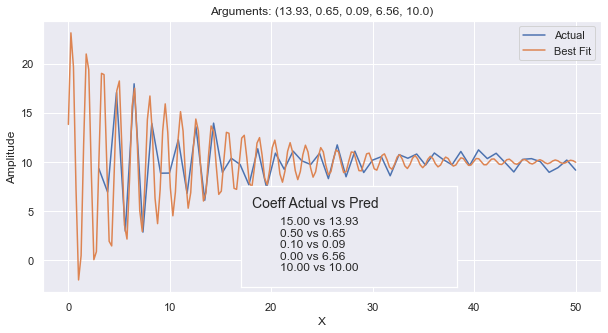
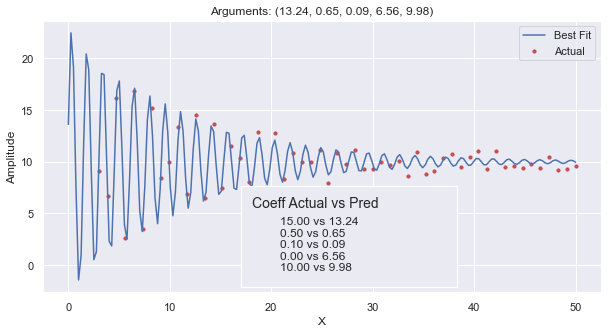
updates to best fit

diff --git a/book_source/visualizations/line_of_best_fit.md b/book_source/visualizations/line_of_best_fit.md
@@ -1,15 +1,19 @@
 # Curve of Best Fit
 In this section, we will show how you can identify a Curve of Best Fit for a set of data points.
-You can choose the form of the equation of the line; it can be a line, parabola, polynomial of order 4 or more,
-or some custom equation like Sigmoid.  
+The curve can be anything an equation can express, but there are some limitations with discontinuous curves and asymptotes.
+The easiest is finding a line of best fit. Secondarily, you can find the polynomial that fits the data points. Tertiary,
+you can provide an equation of a continuous curve involving a combination of functions such as sine or logarithm. 
+Lasty, you can have a non-continuous curve like Sigmoid or `y = 1 / (x - 3).  
 
-We will review three different ways to get the equation of a fitted curve.  
+We will review four different ways to get the equation of a fitted curve.  
 1. `scipy.stats.linregress`: a statistical method that identifies a line's coefficients as well some statistical information.  
 2. `numpy.polyfit`: a Numpy method that identifies the coefficients of any n-ordered polynomial.  
 3. `scipy.stats.curve_fit`: a statistical method that identifies the coefficients of **_any_ function** as well as some statistical information about the fit.  
+4. `ML LinearRegression`: 
 
-In identifying a Curve of Best Fit, it is good to know _how good_ the curve is at representing
-the data points. You should quanitify that it is better worse than a parabola. We can do some of this with 
+When identifying a Curve of Best Fit, it is good to know _how good_ the curve is at representing
+the data points. We want an objective quanitification that tells us whether a straight line is better at fitting
+the points, or some other curved line such as a parabola. We can compare how well two differen lines fit using 
 the Mean Squared Error.  
 
 Often we want to know how much of a correlation there is between the x & y data points. Afterall, 
@@ -189,6 +193,9 @@ def add_inset_text(fig, position, actual, coeffs):
     
     
 def best_parabola_fit():
+    def parabola(x, a, b, c):
+        y = a*x**2 + b*x + c
+        return y
 
     def generate_points(a, b, c, noise):
         x_data = [ x for x in range(3, 50, 2) ]
@@ -245,20 +252,103 @@ Comments go here.
 ````
 
 ## Curve Fit
+Here we see how we can find a curve of best fit to a custom, continuous curve: a logarithmically degrading, sinusoidal wave.  
 ````{tab-set}
-```{tab-item} Sinusoidal
+```{tab-item} Sinusoidal  
+In our custom curve, we have coefficients for each of the following: amplitude, frequency, rate of logarithmic 
+degredation, phase and offset.  
+
+The top plot has "zero arguments" provided in the method `logarithmic_sinusoidal_wave` which means that
+it uses all the default values (10, 1, 0.2, 0, 0). This is why the title of the top plot is: "Arguments: ()".  
+
+The bottom plot is the same equation but with specific coefficients provided (15, 0.5, 0.1, 0, 10). It 
+shows how the coefficients impact the curve. Pay attention to the values on the y-axis.   
 ![regplot](../_static/bestfit_curve_two.png)
+
+```{admonition} See Code
+:class: dropdown seealso
+```python
+def logarithmic_sinusoidal_wave(x, a=10, frequency=1, r=0.2, phase=0, offset=0):
+    # Logarithmic convergence of amplitude
+    amplitude = a * np.exp(-r * x)
+    return offset + amplitude * np.sin(2 * np.pi * frequency * x + phase)
+
+def plot_with_args(ax, x_max, *args):
+    # Generate x values
+    x = np.linspace(0, x_max, 200)
+    # Compute y values (plural) 
+    y = logarithmic_sinusoidal_wave(x, *args)
+
+    # Plot on the axis & show labels
+    ax.plot(x, y)
+    ax.set_xlabel('X')
+    ax.set_ylabel('Amplitude')
+    ax.set_title(f'Arguments: {args}')
+        
+def show_sinusoidal_curve():    
+    fig, (ax1, ax2) = plt.subplots(2, figsize=(10, 9))
+    # add some more spacing horizontally between the two subplots
+    plt.subplots_adjust(hspace=0.3)
+    plot_with_args(ax1, 20)
+    
+    wave_args = (15, 0.5, 0.1, 0, 10)
+    plot_with_args(ax2, 20, *wave_args)
+    
+    plt.suptitle('Logarithmic Sinusoidal Waves', fontsize=18)
 ```
 ```{tab-item} Best Fit
+This plot shows the generated data points (that have noise) as small red dots. These data points
+were derived by adding a noise ($\pm 1$) to the sinusoidal equation using the argments (15, 0.5, 0.1, 0, 10).  
+
+The blue line is the best fit curve that fits the `logarithmic_sinusoidal_wave` (provided
+in the code of the Sinusoidal tab.)  
+
+The inset shows how the actual arguments used when generating the points with noise, and it compares
+them against the coefficients for the curve of best fit. Here you can see that it slightly underestimated
+the amplitidue. It was 0.15 off of the frequency, only 0.01 way from the rate of degradation, and only
+0.02 away from the offset. The phase was 6.56 off of the actual phase used.  
 ![regplot](../_static/bestfit_curve_fit.png)
 ```
 ```{tab-item} Code
 ```python
-def function():
-    pass
+ def find_curve_best_fit():
+    def generate_points(noise, *args):
+        '''
+        *args : allow us to call the function with any number of arguments so long as they are in order.
+                we would just default the rest of the argument values.
+        '''
+        x_data = np.linspace(3, 50, 55)
+        y_data = [ logarithmic_sinusoidal_wave(x, *args) + random.uniform(-noise, noise) for x in x_data]
+        return x_data, y_data
+    
+    # establish our True curve parameters and generate points
+    wave_args = (15, 0.5, 0.1, 0, 10)
+    x_data, y_data = generate_points(1, *wave_args)
+    
+    # get our initial guess as to what the coefficients will be.
+    # the count of arguments here tells curve_fit how many arguments to optimize.
+    p0 = (15, 1, .5, 0, 0)
+    # find our curve of best fit from the line, and round off the coefficient values
+    coeffs, _ = curve_fit(logarithmic_sinusoidal_wave, x_data, y_data, p0=p0)
+    coeffs = tuple([ round(t, 2) for t in coeffs  ])
+
+    # Plot all of it
+    fig, ax = plt.subplots(1, figsize=(10, 5))
+    ax.scatter(x_data, y_data, s=10, color='r')
+    plot_with_args(ax, 50, *coeffs)
+    ax.legend(['Best Fit', 'Actual'])
+    pos = [ .4, .14, .3, .28 ]
+    add_inset_text(fig, pos, wave_args, coeffs)
 ```
 ```{tab-item} Comments
-Comments go here.
+Things to discuss:   
+* sinusoidal curve equation   
+* ax.scatter with 's' argument  
+* *args in generate_points and use of *wave_args  
+* linspace  
+* curve_fit: return values and how it works  
+* P0 values   
+* graph inset  
 ```
 ````
 

diff --git a/book_source/index.md b/book_source/index.md
@@ -1,11 +1,16 @@
 
 # <i class="fas fa-hand-sparkles fa-fw"></i> Introduction
 
-This website is intended to augment the [CSE 163: Intermediate Data Programming](https://courses.cs.washington.edu/courses/cse163) curriculum and [online book](https://cse163.github.io/book) provided by Hunter Schafer. This UW course is completed in 10 weeks (the length of UW's quarter) while students in high school have 35 weeks, which means there is time for some _more stuff_. Furthermore, the tools leveraged and the expectations in the high school classroom are different, so some of the UW material published is simply inaccurate. 
+```{admonition} Website Mission
+:class: note
+To provide a site that allows one to “window shop” for the technology and methods that add value to a student in IDP.  
+```
+
+This website is intended to augment the [CSE 163: Intermediate Data Programming](https://courses.cs.washington.edu/courses/cse163) curriculum and [online book](https://cse163.github.io/book) provided by Hunter Schafer. The UW course is completed in 10 weeks (the length of UW's quarter) while students in high school have 35 weeks. This mean that the abitious student has time for some _more, cool stuff_. Furthermore, the tools leveraged and the expectations in the high school classroom are different from UW's expectations. Sometimes, the published UW material is simply inaccurate. Herein, we provide valuable, easy to browse, easy to leverage, accurate information for the high school student in IDP.  
 
 Mr. Stride has created "this ridiculous" thing... for you.
 ```{admonition} Video Reference
-:class: dropdown
+:class: dropdown seealso
 <div>
     <iframe width="560" height="315" src="https://www.youtube.com/embed/tHU1uoR8L30" title="YouTube video player" frameborder="0" allow="accelerometer; autoplay; clipboard-write; encrypted-media; gyroscope; picture-in-picture; web-share" allowfullscreen></iframe>
 </div>
